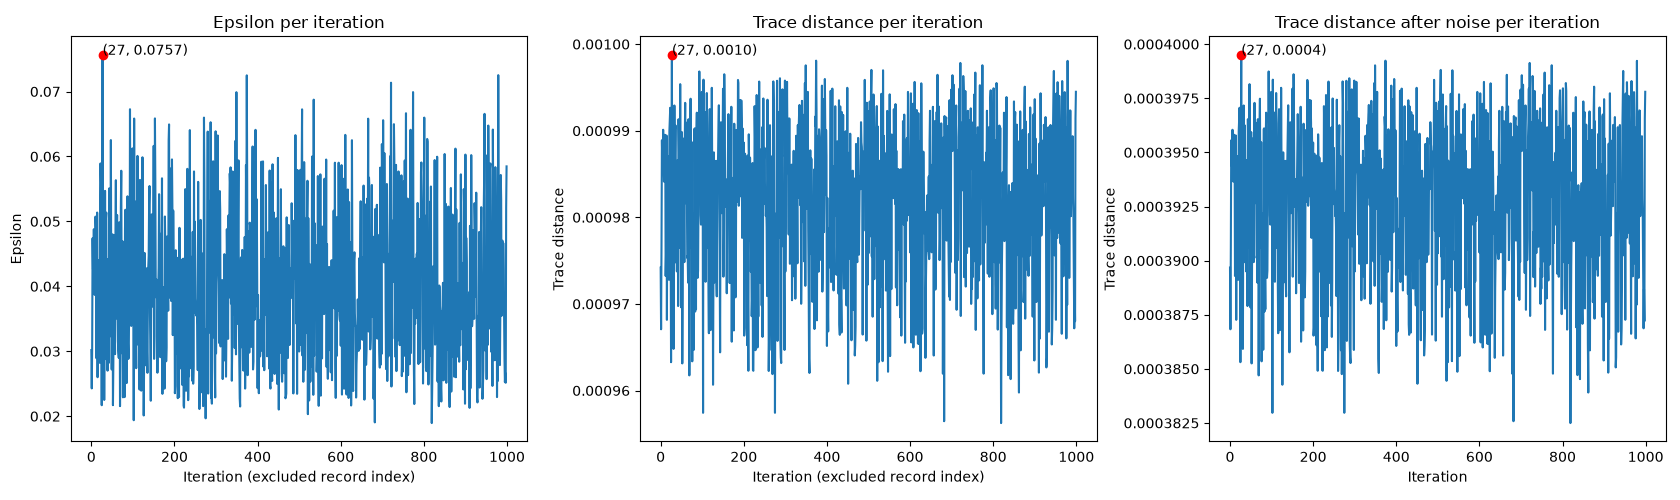
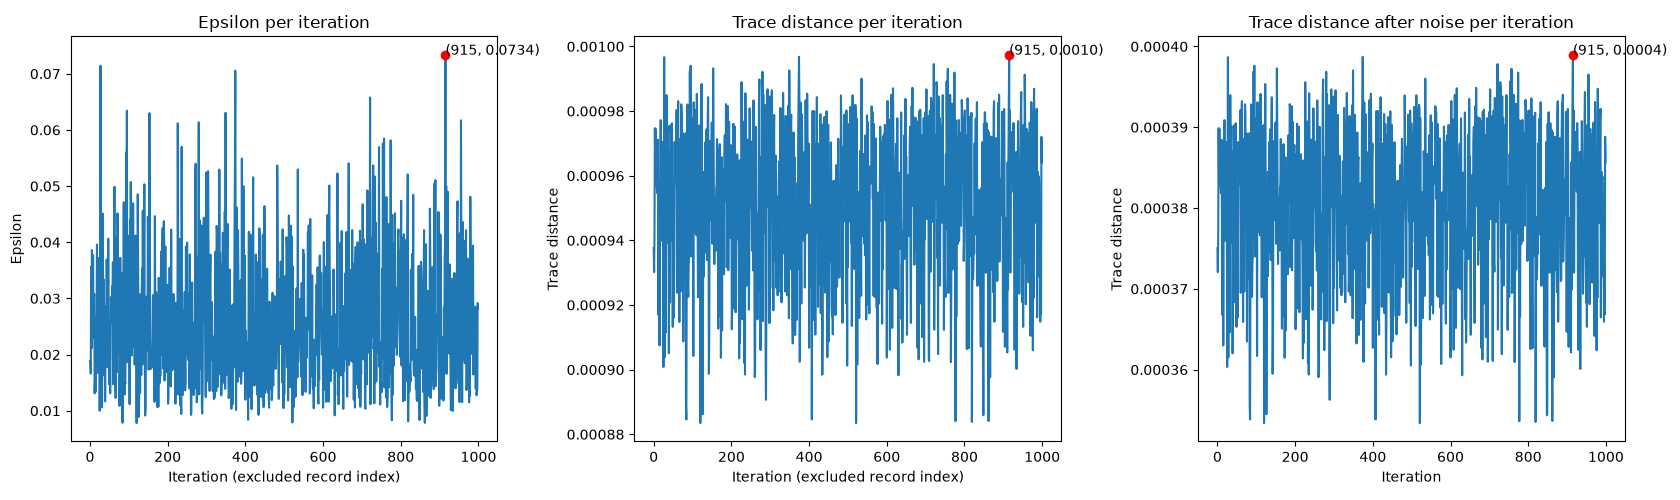
Ajustes a los experimentos

diff --git a/Experiment/tests/GADComplete.py b/Experiment/tests/GADComplete.py
@@ -14,6 +14,8 @@ dataset = pd.read_csv("/Users/tomassierra/Documents/Universidad/Tesis/TesisPregr
 max_epsilon=0
 max_trace = 0
 teo_ep = 0
+epsilons = {}
+cols=["collateral_enc", "purpose_enc", "housing_enc", "status_account_ord", "month_duration", "status_savings_ord", "years_employment_ord", "credit_amount"]
 
 for k in tqdm(range(7)):
     
@@ -41,12 +43,18 @@ for k in tqdm(range(7)):
         iter_max = max(rho_to_sigma_dPD, sigma_to_rho_dPD)
         e_list.append(iter_max)
     
+    
     max_trace = max(d_list)
     teo_ep += NoiseMechanisms.GADNoiseTeo(max_trace, 0.5)
-    max_epsilon += max(e_list)
+    
+    exp_ep = max(e_list)
+    max_epsilon += exp_ep
+    
+    epsilons[cols[k]] = (teo_ep, exp_ep)
     
 print(f"Teo {teo_ep}")
-print(f"Exp {max_epsilon}")    
+print(f"Exp {max_epsilon}")
+#print(epsilons)    
     
 """
 fig, axes = plt.subplots(1, 2, figsize=(12, 5))

diff --git a/Experiment/tests/PresentationData.py b/Experiment/tests/PresentationData.py
@@ -1,0 +1,22 @@
+import numpy as np
+import pennylane as qp
+from tabulate import tabulate
+
+from Experiment.classes import Encoder, NoiseMechanisms
+
+device = qp.device('default.mixed', wires=7)
+circuit = qp.QNode(Encoder.encodeOneCol, device)
+
+row = {"collateral_enc": 3.0}
+
+rho = circuit(row, 0)
+rho_gad = NoiseMechanisms.GADNoiseMultiQubit(rho, 0.5, 0.5)
+print("Matriz de densidad de collateral = 3")
+print("Sin ruido")
+print(tabulate(np.round(rho, 3).astype(str), tablefmt="grid"))
+
+print("Con ruido")
+print(tabulate(np.round(rho_gad, 3).astype(str), tablefmt="grid"))
+
+print(f"Status accound min max {Encoder.min_max(1.0, 0, 3)}")
+print(f"Month min max {Encoder.min_max(24.0, 4, 72)}")

diff --git a/Experiment/classes/Encoder.py b/Experiment/classes/Encoder.py
@@ -13,7 +13,7 @@ def encodeNumerical(wire: int, valueY: int, valueZ: int = 0):
     qp.RZ(valueZ, wires=wire)
 
 def min_max(x: float, min: float, max: float):
-    return (x-min)/max-min
+    return math.pi * ((x-min)/(max-min))
 
 def encodeOneCol(row: dict, row_num: int):
     if row_num == 0:
